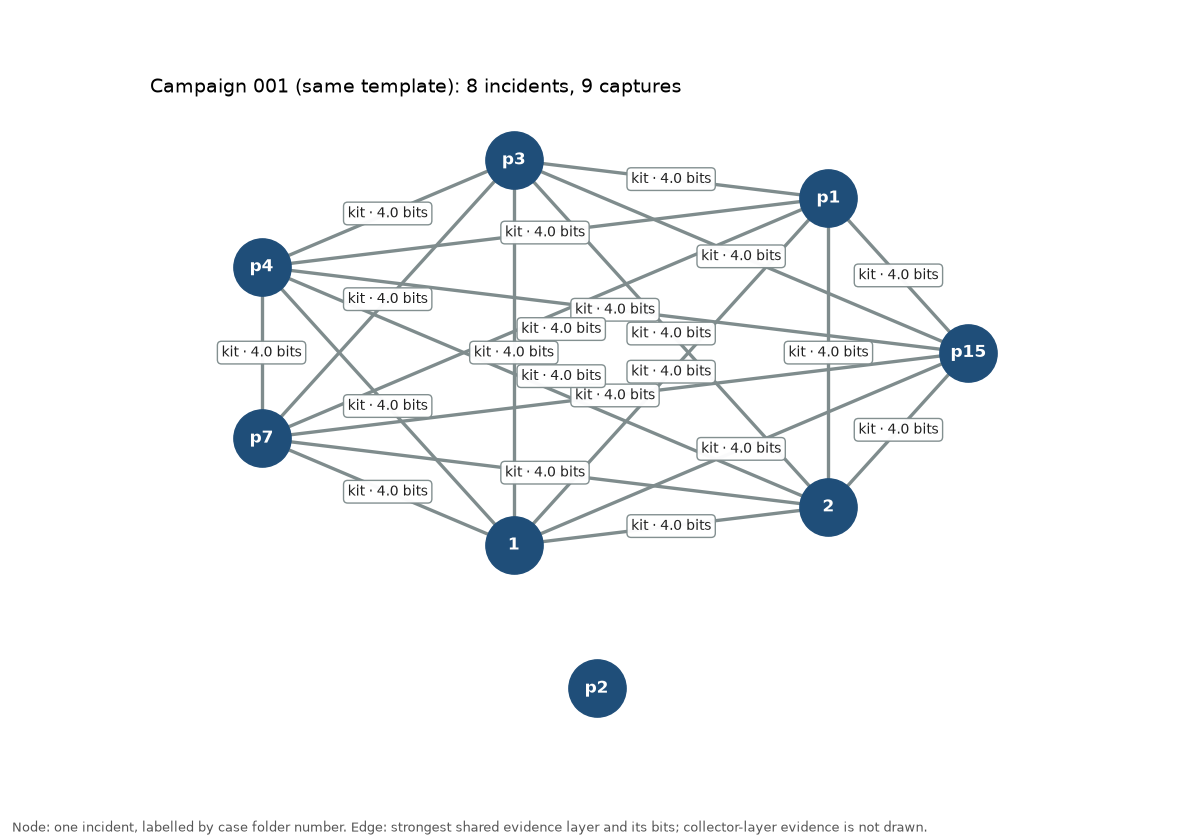
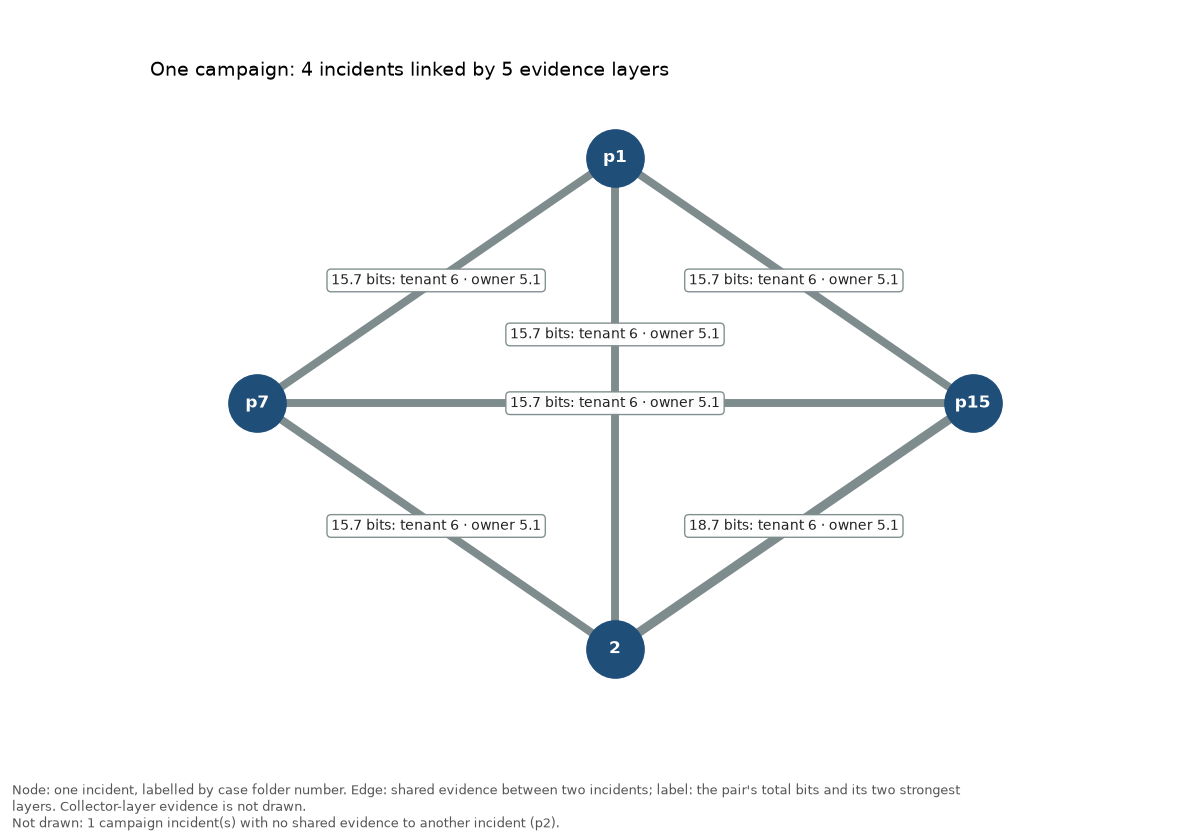
HACK-59 Campaign graph: one campaign, total bits and top layers per pair (#84)
Linear: HACK-59

Changed region(s): [[0.185, 0.1548, 0.8325, 0.8667], [0.0, 0.9286, 0.8017, 0.9905], [0.1233, 0.0619, 0.5858, 0.1238]]

diff --git a/scripts/make_campaign_graph.py b/scripts/make_campaign_graph.py
@@ -1,10 +1,12 @@
-"""Static PNG of one campaign: incidents as nodes, shared evidence as edges.
+"""Static PNG of one organiser campaign: incidents as nodes, shared evidence as edges.
 
-Reads a contract `Dataset` JSON (a built base document), picks the
-largest campaign that carries platform-layer evidence (or the one given with `--campaign`), and
-draws its incidents. Nodes are labelled by case folder number. Each edge carries the strongest
-shared evidence layer of its pair and that row's bits. No indicator value (URL, domain, id,
-hash) is drawn. Graph data comes from `ftf.app.relations`; only the drawing lives here.
+Reads a contract `Dataset` JSON (a built base document) and draws one campaign of relation
+`campaign`: the one whose incident pairs carry the most varied shared evidence, or the one given
+with `--campaign`. Nodes are labelled by case folder number. An edge joins two incidents; its label
+gives the pair's total shared bits and its two strongest evidence layers, and its width scales with
+those total bits. Each indicator counts once per pair. Collector-layer evidence is never drawn, and
+no indicator value (URL, domain, id, hash) is drawn. Graph data comes from `ftf.app.relations`;
+only the drawing lives here.
 
     python3 -I scripts/make_campaign_graph.py DATASET.json OUT.png [--campaign ID]
 
@@ -16,6 +18,8 @@ from __future__ import annotations
 
 import argparse
 import re
+import textwrap
+from collections import defaultdict
 from pathlib import Path
 
 import matplotlib
@@ -25,16 +29,21 @@ import matplotlib.pyplot as plt  # noqa: E402
 import networkx as nx  # noqa: E402
 
 from ftf.app import relations as R  # noqa: E402
-from ftf.contract import Campaign, Dataset, Layer  # noqa: E402
+from ftf.contract import Campaign, Dataset, Relation  # noqa: E402
 
 WIDTH_PX = 1200
 DPI = 100
 NODE_FILL = "#1f4e79"
 EDGE_COLOUR = "#7f8c8d"
+IDEAL_INCIDENTS = (4, 8)
+MAX_EXTRA_EDGES = 3  # strongest pairs drawn beyond the spanning tree, keeps labels readable
 FOOTNOTE = (
-    "Node: one incident, labelled by case folder number. Edge: strongest shared evidence layer "
-    "and its bits; collector-layer evidence is not drawn."
+    "Node: one incident, labelled by case folder number. Edge: shared evidence between two incidents; "
+    "label: the pair's total bits and its two strongest layers. Collector-layer evidence is not drawn."
 )
+FOOTNOTE_WRAP = 150  # characters per footnote line at 9 pt on the 1200 px canvas
+
+PairEvidence = tuple[float, list[tuple[str, float]]]  # total bits, (layer, bits) strongest first
 
 
 def incident_of(ds: Dataset) -> dict[str, str]:
@@ -55,47 +64,90 @@ def case_label(ds: Dataset) -> dict[str, str]:
     return labels
 
 
-def pick_campaign(ds: Dataset, threshold: float) -> Campaign:
-    """Largest campaign (by incidents, then captures) with at least one platform-layer edge."""
-    platform_links = {
-        e.link_id
-        for e in R.edges(ds, threshold=threshold)
-        if any(s.layer == Layer.platform.value for s in e.shared)
-    }
-    inc = incident_of(ds)
-    found = []
-    for camp in ds.campaigns:
-        incidents = {inc[c] for c in camp.capture_ids}
-        if len(incidents) >= 2 and platform_links.intersection(camp.link_ids):
-            found.append((-len(incidents), -len(camp.capture_ids), camp.id, camp))
-    if not found:
-        raise SystemExit("no campaign with two incidents and platform-layer evidence")
-    return min(found, key=lambda t: t[:3])[3]
-
-
-def campaign_graph(ds: Dataset, camp: Campaign, threshold: float) -> nx.Graph:
-    """Incident-level graph of one campaign; each edge keeps its strongest shared row."""
+def pair_evidence(ds: Dataset, camp: Campaign, threshold: float) -> dict[tuple[str, str], PairEvidence]:
+    """Incident pair -> total shared bits and per-layer bits, from the campaign's relation edges.
+    An indicator shared by several capture links of the same pair counts once, at its strongest row."""
     rel_graph = R.relation_graph(ds, camp.relation, threshold)
     members = set(camp.capture_ids)
     inc = incident_of(ds)
-    labels = case_label(ds)
-    g = nx.Graph(campaign=camp.id, relation=camp.relation.value)
-    for cid in sorted(members):  # sorted: the ring order must not depend on hash seeds
-        g.add_node(inc[cid], label=labels[inc[cid]])
+    rows: dict[tuple[str, str], dict[tuple, R.Shared]] = defaultdict(dict)
     for u, v, data in rel_graph.edges(data=True):
         if u not in members or v not in members or inc[u] == inc[v]:
             continue
-        shared = [s for e in data["edges"] for s in e.shared]
-        best = max(shared, key=lambda s: s.bits)
-        a, b = inc[u], inc[v]
-        if g.has_edge(a, b) and g[a][b]["bits"] >= best.bits:
+        pair = tuple(sorted((inc[u], inc[v])))
+        for e in data["edges"]:
+            for s in e.shared:
+                kept = rows[pair].get(s.key)
+                if kept is None or s.bits > kept.bits:
+                    rows[pair][s.key] = s
+    out: dict[tuple[str, str], PairEvidence] = {}
+    for pair, shared in rows.items():
+        per_layer: dict[str, float] = defaultdict(float)
+        for s in shared.values():
+            per_layer[s.layer] += s.bits
+        ranked = sorted(per_layer.items(), key=lambda kv: (-kv[1], kv[0]))
+        out[pair] = (sum(per_layer.values()), ranked)
+    return out
+
+
+def pick_campaign(ds: Dataset, threshold: float) -> Campaign:
+    """Organiser campaign with the most varied shared evidence: most distinct layers (at least two),
+    then 4-8 incidents, then most total bits."""
+    found = []
+    for camp in ds.campaigns:
+        if camp.relation is not Relation.campaign:
             continue
-        g.add_edge(a, b, layer=best.layer, bits=best.bits)
+        pairs = pair_evidence(ds, camp, threshold)
+        layers = {layer for _, ranked in pairs.values() for layer, _ in ranked}
+        if len(layers) < 2:
+            continue
+        n_inc = len({i for pair in pairs for i in pair})
+        ideal = IDEAL_INCIDENTS[0] <= n_inc <= IDEAL_INCIDENTS[1]
+        total = sum(t for t, _ in pairs.values())
+        found.append((-len(layers), not ideal, -total, camp.id, camp))
+    if not found:
+        raise SystemExit("no organiser campaign with shared evidence in at least two layers")
+    return min(found, key=lambda t: t[:4])[4]
+
+
+def campaign_graph(ds: Dataset, camp: Campaign, threshold: float) -> nx.Graph:
+    """Incident graph of one campaign. Nodes: its incidents. Edges: pairs with shared evidence, kept as
+    a maximum spanning tree on total bits plus the strongest further pairs. Graph attributes record the
+    incidents with no shared evidence (`isolated`, not drawn) and how many weaker pairs were left out."""
+    inc = incident_of(ds)
+    labels = case_label(ds)
+    full = nx.Graph()
+    for cid in sorted(set(camp.capture_ids)):  # sorted: layout must not depend on hash seeds
+        full.add_node(inc[cid], label=labels[inc[cid]])
+    for (a, b), (total, ranked) in pair_evidence(ds, camp, threshold).items():
+        full.add_edge(a, b, bits=total, layers=ranked)
+    isolated = sorted(n for n in full.nodes if full.degree(n) == 0)
+    full.remove_nodes_from(isolated)
+
+    tree = nx.maximum_spanning_tree(full, weight="bits")
+    extra = sorted((e for e in full.edges if not tree.has_edge(*e)), key=lambda e: -full.edges[e]["bits"])
+    g = nx.Graph(campaign=camp.id, relation=camp.relation.value)
+    g.add_nodes_from(full.nodes(data=True))
+    g.add_edges_from(tree.edges(data=True))
+    for u, v in extra[:MAX_EXTRA_EDGES]:
+        g.add_edge(u, v, **full.edges[u, v])
+    g.graph["isolated"] = [labels[inc_id] for inc_id in isolated]
+    g.graph["pruned"] = full.number_of_edges() - g.number_of_edges()
     return g
 
 
 def _layer_text(layer: str) -> str:
     return layer.replace("_", " ")
+
+
+def _num(x: float) -> str:
+    return f"{round(x, 1):g}"
+
+
+def _edge_text(d: dict) -> str:
+    """'38 bits: tracker 22 · image 9': total pair bits, then the two strongest layers."""
+    parts = [f"{_layer_text(layer)} {_num(bits)}" for layer, bits in d["layers"][:2]]
+    return f"{_num(d['bits'])} bits: " + " · ".join(parts)
 
 
 NODE_SIZE = 1700
@@ -115,26 +167,19 @@ def _place_edge_labels(ax, fig, g: nx.Graph, pos: dict) -> None:
     for n in g.nodes:
         x, y = ax.transData.transform(pos[n])
         blocked.append(Bbox.from_extents(x - NODE_HALF_PX, y - NODE_HALF_PX, x + NODE_HALF_PX, y + NODE_HALF_PX))
+    box_style = {"boxstyle": "round,pad=0.3", "fc": "white", "ec": EDGE_COLOUR, "alpha": 0.97}
     for u, v, d in sorted(g.edges(data=True), key=lambda e: -e[2]["bits"]):
         (x0, y0), (x1, y1) = pos[u], pos[v]
         length = ((x1 - x0) ** 2 + (y1 - y0) ** 2) ** 0.5 or 1.0
         nx_, ny_ = -(y1 - y0) / length, (x1 - x0) / length  # unit normal to the edge
-        text = f"{_layer_text(d['layer'])} · {d['bits']:.1f} bits"
+        text = _edge_text(d)
         placed = None
         for t in LABEL_T:
             for off in LABEL_OFFSET:
                 x = x0 + t * (x1 - x0) + off * nx_
                 y = y0 + t * (y1 - y0) + off * ny_
                 artist = ax.text(
-                    x,
-                    y,
-                    text,
-                    ha="center",
-                    va="center",
-                    fontsize=10,
-                    color="#222222",
-                    zorder=5,
-                    bbox={"boxstyle": "round,pad=0.3", "fc": "white", "ec": EDGE_COLOUR, "alpha": 0.97},
+                    x, y, text, ha="center", va="center", fontsize=10, color="#222222", zorder=5, bbox=box_style
                 )
                 box = artist.get_window_extent(renderer)
                 if not any(box.overlaps(b) for b in blocked):
@@ -145,16 +190,7 @@ def _place_edge_labels(ax, fig, g: nx.Graph, pos: dict) -> None:
             if placed is not None:
                 break
         if placed is None:  # no free slot: keep the label at the midpoint rather than drop evidence
-            ax.text(
-                (x0 + x1) / 2,
-                (y0 + y1) / 2,
-                text,
-                ha="center",
-                va="center",
-                fontsize=10,
-                zorder=5,
-                bbox={"boxstyle": "round,pad=0.3", "fc": "white", "ec": EDGE_COLOUR, "alpha": 0.97},
-            )
+            ax.text((x0 + x1) / 2, (y0 + y1) / 2, text, ha="center", va="center", fontsize=10, zorder=5, bbox=box_style)
 
 
 def layout(g: nx.Graph) -> dict:
@@ -170,7 +206,7 @@ def layout(g: nx.Graph) -> dict:
     return pos
 
 
-def draw(g: nx.Graph, camp: Campaign, out: Path) -> None:
+def draw(g: nx.Graph, out: Path) -> None:
     """Render the incident graph at 1200 px wide."""
     pos = layout(g)
     fig, ax = plt.subplots(figsize=(WIDTH_PX / DPI, 8.4), dpi=DPI)
@@ -179,7 +215,8 @@ def draw(g: nx.Graph, camp: Campaign, out: Path) -> None:
     ys = [p[1] for p in pos.values()]
     ax.set_xlim(min(xs) - 0.3, max(xs) + 0.3)
     ax.set_ylim(min(ys) - 0.3, max(ys) + 0.3)
-    widths = [1.0 + 0.35 * d["bits"] for _, _, d in g.edges(data=True)]
+    max_bits = max((d["bits"] for _, _, d in g.edges(data=True)), default=1.0) or 1.0
+    widths = [1.5 + 5.0 * d["bits"] / max_bits for _, _, d in g.edges(data=True)]
     nx.draw_networkx_edges(g, pos, ax=ax, width=widths, edge_color=EDGE_COLOUR)
     nx.draw_networkx_nodes(g, pos, ax=ax, node_size=NODE_SIZE, node_color=NODE_FILL)
     nx.draw_networkx_labels(
@@ -193,14 +230,23 @@ def draw(g: nx.Graph, camp: Campaign, out: Path) -> None:
     )
     _place_edge_labels(ax, fig, g, pos)
     n_inc = g.number_of_nodes()
-    n_cap = len(camp.capture_ids)
+    n_layers = len({layer for _, _, d in g.edges(data=True) for layer, _ in d["layers"]})
     ax.set_title(
-        f"Campaign {camp.id.split(':')[-1]} ({R.RELATION_LABEL[camp.relation]}): "
-        f"{n_inc} incidents, {n_cap} captures",
+        f"One campaign: {n_inc} incidents linked by {n_layers} evidence layers",
         fontsize=14,
         loc="left",
     )
-    fig.text(0.01, 0.01, FOOTNOTE, fontsize=9, color="#555555")
+    notes = [FOOTNOTE]
+    if g.graph["pruned"]:
+        notes.append(f"{g.graph['pruned']} weaker incident pairs not drawn (spanning tree plus the strongest others).")
+    if g.graph["isolated"]:
+        notes.append(
+            f"Not drawn: {len(g.graph['isolated'])} campaign incident(s) with no shared evidence to another "
+            f"incident ({', '.join(g.graph['isolated'])})."
+        )
+    lines = [line for note in notes for line in textwrap.wrap(note, FOOTNOTE_WRAP)]
+    fig.subplots_adjust(top=0.9, bottom=0.05 + 0.03 * len(lines))
+    fig.text(0.01, 0.01, "\n".join(lines), fontsize=9, color="#555555", va="bottom")
     fig.savefig(out, dpi=DPI, facecolor="white")
     plt.close(fig)
 
@@ -209,7 +255,7 @@ def main(argv: list[str] | None = None) -> None:
     p = argparse.ArgumentParser(description=__doc__.splitlines()[0])
     p.add_argument("dataset", type=Path, help="contract Dataset JSON")
     p.add_argument("out", type=Path, help="output PNG")
-    p.add_argument("--campaign", help="campaign id; default: largest with platform-layer evidence")
+    p.add_argument("--campaign", help="campaign id; default: organiser campaign with the most varied evidence")
     args = p.parse_args(argv)
     ds = Dataset.from_json(args.dataset.read_bytes())
     threshold = R.review_threshold_bits(ds)
@@ -221,8 +267,11 @@ def main(argv: list[str] | None = None) -> None:
     else:
         camp = pick_campaign(ds, threshold)
     g = campaign_graph(ds, camp, threshold)
-    draw(g, camp, args.out)
-    print(f"{camp.id}: {g.number_of_nodes()} incidents, {g.number_of_edges()} edges -> {args.out}")
+    draw(g, args.out)
+    print(
+        f"{camp.id}: {g.number_of_nodes()} incidents, {g.number_of_edges()} edges drawn, "
+        f"{g.graph['pruned']} pruned, {len(g.graph['isolated'])} isolated -> {args.out}"
+    )
 
 
 if __name__ == "__main__":
